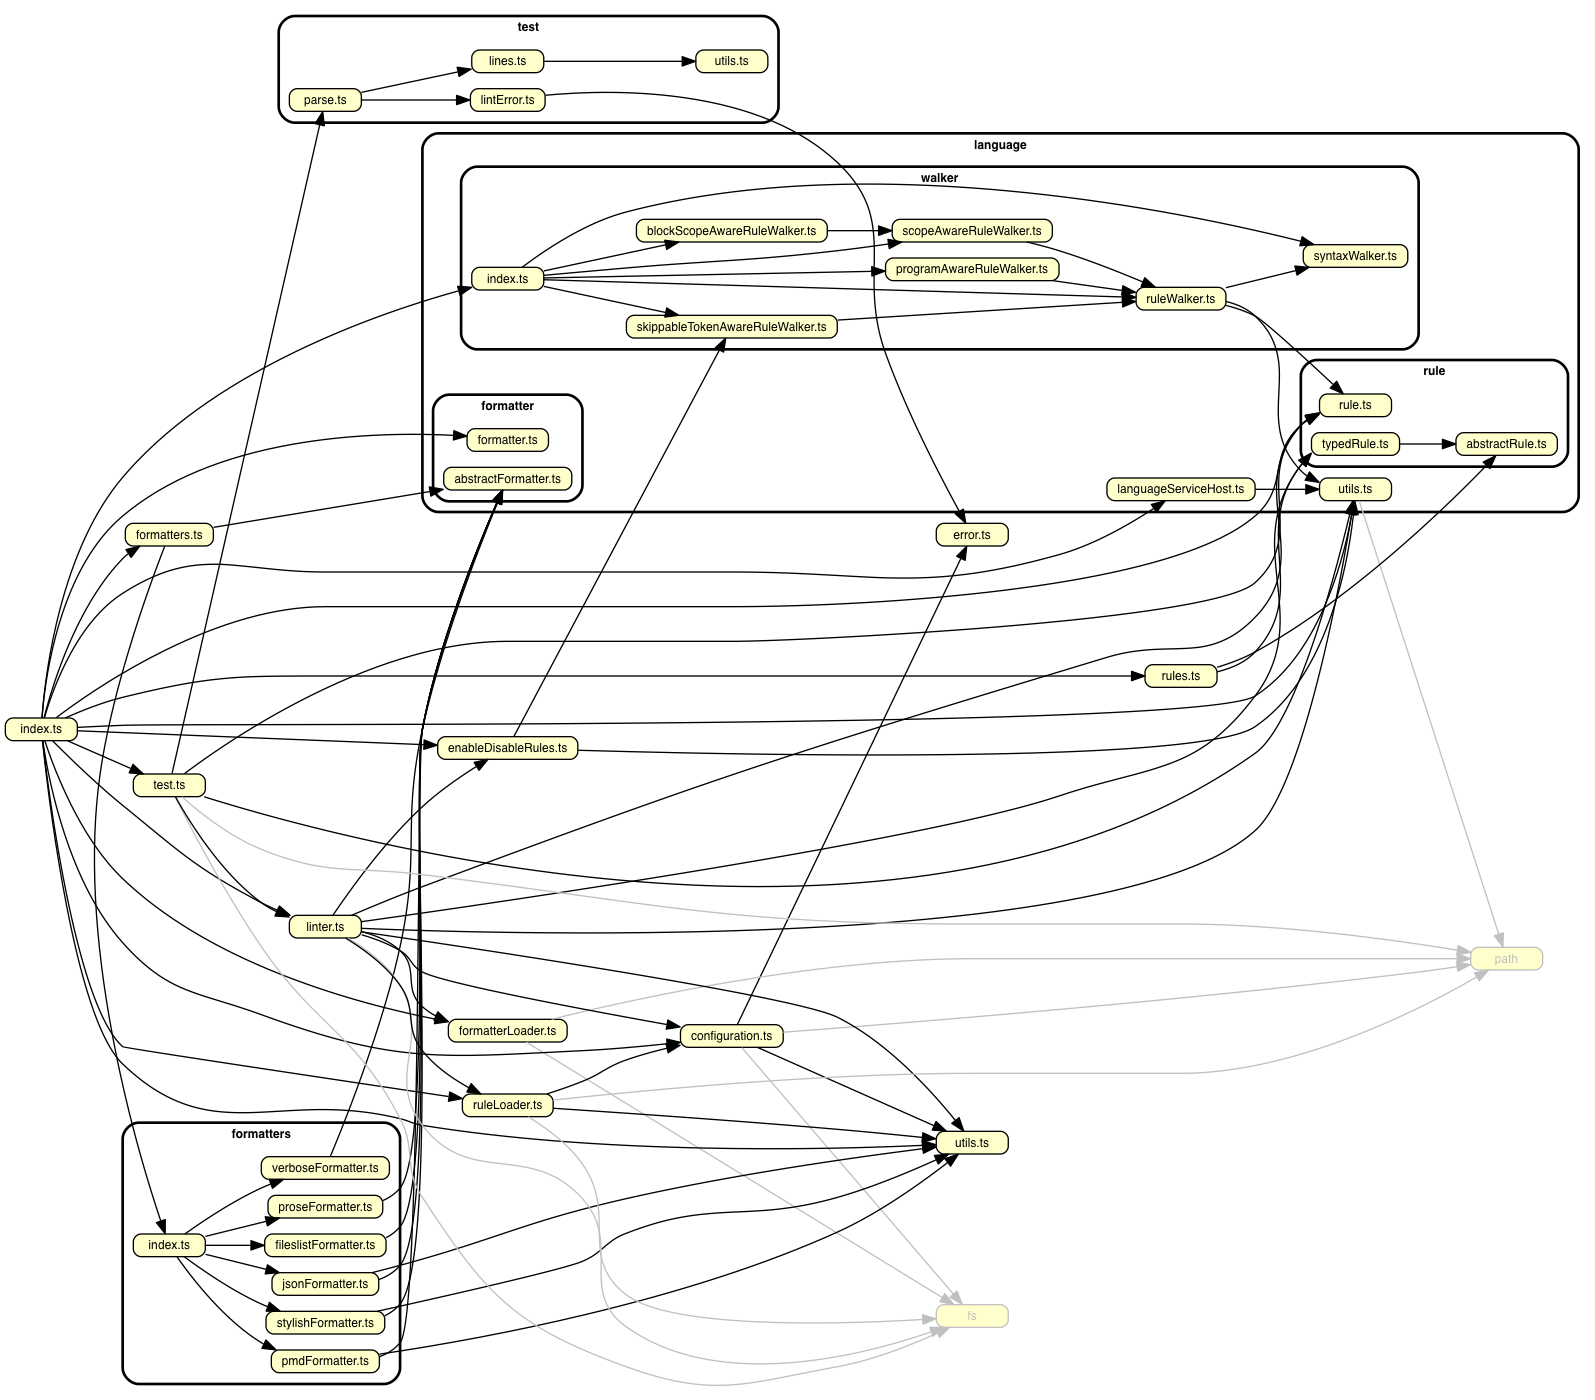
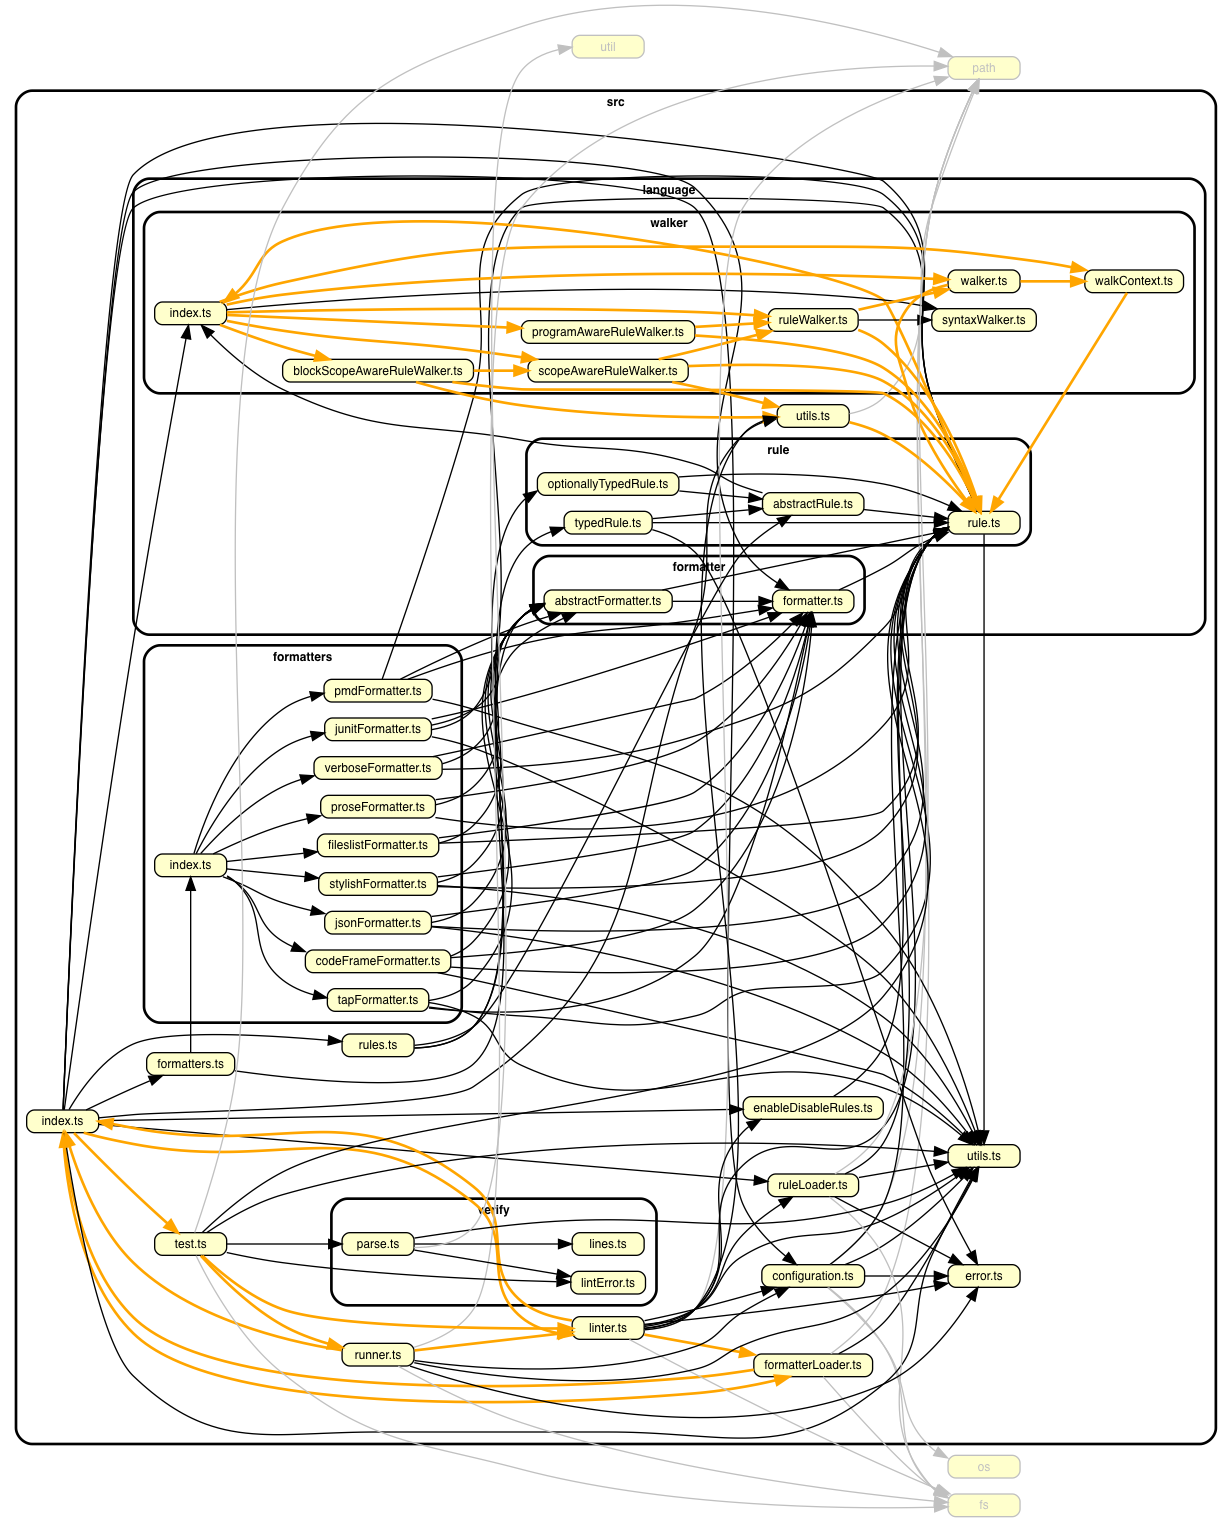
doc(samples): updates the tslint sample

Changed region(s): [[0.0, 0.0, 1.0, 1.0], [0.9562, 0.9214, 0.987, 0.9521]]

diff --git a/doc/real-world-samples.md b/doc/real-world-samples.md
@@ -37,16 +37,18 @@ For coloring strings in the terminal. A typical _Sorhus style_ micro module that
 It is possible to use dependency-cruiser to infer dependencies of typescript
 projects.
 
-We got the picture of tslint below by changing to the tslint/src folder and
-running this:
+We got the picture of tslint by running this in its source folder:
 ```sh
-dependency-cruise -T dot -x node_modules index.ts  | dot -T png > tslint-without-node_modules.png
+dependency-cruise -T dot -x node_modules -v -- src/index.ts  | dot -T png > tslint-without-node_modules.png
 ```
 
 (Yep, that's all - no separate transpilation steps necessary ...)
 
 ### tslint
 [palantir/tslint](https://github.com/palantir/tslint) - linter for typescript.
+
+The orange lines are warnings for circular dependencies, which occur around two of 
+tslint's 'barrel' `index.ts` modules:
 
 ![tslint](real-world-samples/tslint-without-node_modules.png)
 
